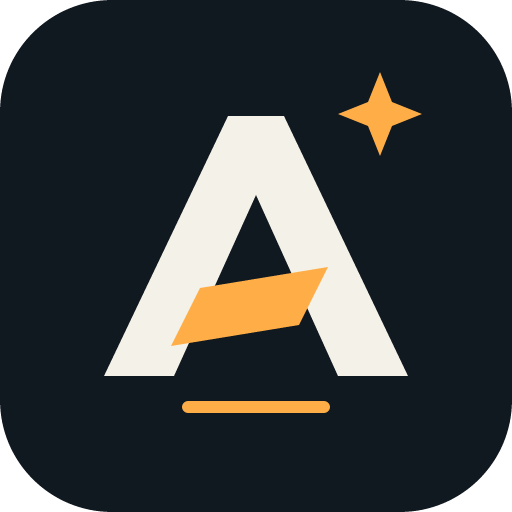
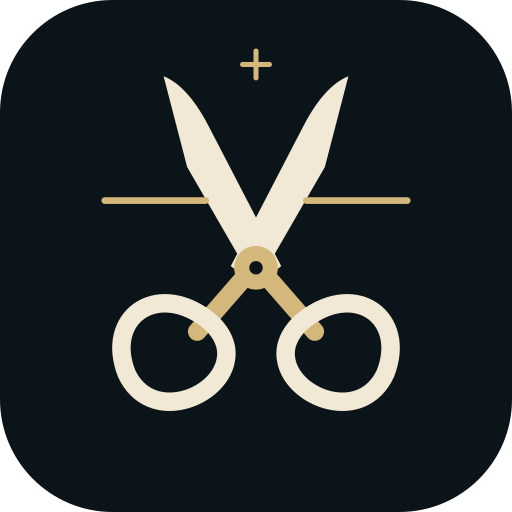
Propose Axiom Atropos identity while preserving Forge runtime compatibility

Changed region(s): [[0.1875, 0.125, 0.8125, 0.8125], [0.4688, 0.0938, 0.5312, 0.1562]]

diff --git a/README.md b/README.md
@@ -1,14 +1,23 @@
 <p align="center">
-  <img src="assets/readme-cover.svg" width="960" alt="Axiom Forge — research and engineering skills" />
+  <picture>
+    <source media="(prefers-color-scheme: dark) and (max-width: 600px)" srcset="assets/readme-cover-dark-mobile.svg" />
+    <source media="(max-width: 600px)" srcset="assets/readme-cover-mobile.svg" />
+    <source media="(prefers-color-scheme: dark)" srcset="assets/readme-cover-dark.svg" />
+    <img src="assets/readme-cover.svg" width="960" alt="Axiom Atropos — research and engineering skill pack in the Axiom Moirai family" />
+  </picture>
 </p>
 
-# Axiom Forge
+# Axiom Atropos
 
 **Research and engineering skills for the agent you already use.**
 
 <p align="center"><a href="README.md">English</a> · <a href="README.zh-TW.md">繁體中文</a> · <a href="README.zh-CN.md">简体中文</a></p>
 
-Axiom Forge brings **66 skills** into **Codex · Claude Code · DeepSeek Harness · Antigravity · Pi**. Use them to work through a research question, review evidence, or plan and check a code change.
+Axiom Atropos brings **66 skills** into **Codex · Claude Code · DeepSeek Harness · Antigravity · Pi**. Use them to work through a research question, review evidence, or plan and check a code change.
+
+**Naming transition:** Axiom Atropos is the selected new name for this **Axiom Forge** skill pack, in the Axiom family's **Moirai** series. Repository URLs, install commands, plugin IDs and host display names stay unchanged in this branding-only update. [Naming & compatibility](docs/naming-transition.md).
+
+This package includes skills and supporting agent integrations. **Axiom Lachesis remains planned**; this branding change does not implement or bundle that separate product.
 
 ## What are you working on?
 
@@ -16,7 +25,7 @@ Axiom Forge brings **66 skills** into **Codex · Claude Code · DeepSeek Harness
 
 Start with [research-suite](skills/research-suite/SKILL.md). It selects workflows for literature searches, hypothesis design, statistics and evidence critique.
 
-> Use Axiom Forge to investigate this question. Start with research-suite and select the skills the problem needs.
+> Use Axiom Atropos to investigate this question. Start with research-suite and select the skills the problem needs.
 
 ### A code change
 
@@ -24,7 +33,7 @@ Start with [poteto-mode](skills/poteto-mode/SKILL.md). It routes engineering wor
 
 > Use poteto-mode to investigate this bug. Read the relevant code, reproduce the failure, and explain how you will check the fix.
 
-Pick the skills the task needs. You do not need to load all 65.
+Pick the skills the task needs. You do not need to load all 66.
 
 ## Install for your host
 
@@ -67,7 +76,7 @@ These commands download and run an installer from `main`. Read [the shell instal
 ## Inside the repository
 
 ```text
-skills/             65 reusable workflows
+skills/             66 reusable workflows
 pstack-resources/   Shared Pstack references and host mappings
 docs/               Compatibility and maintenance
 scripts/            Installer, validation and packaging

diff --git a/docs/naming-transition.md b/docs/naming-transition.md
@@ -1,0 +1,34 @@
+# Axiom Atropos: naming and compatibility
+
+**Axiom Atropos** is the selected new name for the skill pack previously presented as **Axiom Forge**. It belongs to **Moirai**, a series within the Axiom mother brand. This change updates the first-party visual identity and introductory documentation only; it does not rename the repository, migrate the installed package or replace its existing integrations.
+
+## What stays stable
+
+| Surface | Retained value or behavior |
+|---|---|
+| Repository and releases | `xinhi6716/axiom-forge` and its existing URLs |
+| Plugin and marketplace identifiers | `axiom-forge` |
+| Host-facing display name and generated metadata | `Axiom Forge` in the existing manifests |
+| Install, update and invocation commands | Existing commands and host selectors, unchanged |
+| Skill paths and supporting resources | All 66 skills, `skills/` and `pstack-resources/` paths, unchanged |
+| Existing bridge and agents | `bridge/`, `agents/`, `skills/god-mode/` and their metadata mappings, unchanged |
+| Version and packaging | Existing version and `axiom-forge` archive identifiers, unchanged |
+| Host support and verification | Existing compatibility table and evidence, unchanged |
+
+**No reinstall, command rewrite or manual cache migration is required for this branding-only update.** An installed host may continue to show **Axiom Forge**; that is expected while these compatibility identifiers remain stable. Keep using the documented install/update commands and existing repository links.
+
+Any later identifier, package or repository migration will need its own compatibility plan. This document does not promise an automatic redirect or a future migration date.
+
+## Product boundaries
+
+- **Axiom** is the mother brand, not a claim that every proposed family product has shipped.
+- **Axiom Atropos** is this skill pack with its existing supporting bridge and agent integrations. This identity update does not supply host CLIs, model access, credentials or environment setup, and does not change how those integrations operate.
+- **Axiom Lachesis** is a planned coordinator without self-evolution or RAG. This branding change does not implement or bundle that separate product.
+
+The existing RSI material remains a research method, not a deployed self-evolution capability or a promise of unlimited self-improvement.
+
+## Artwork and attribution
+
+The selected **Celestial Order** identity uses newly constructed vector artwork for Axiom Atropos. Its symbolic shears refer to a clear craft boundary; they do not alter skill behavior or establish measured performance. See [asset notices](../assets/ASSET_NOTICES.txt).
+
+Upstream Pstack artwork, source pins, copyright notices and licenses are preserved. They are not rebranded as original Axiom work. The repository's [MIT license](../LICENSE) remains unchanged.

diff --git a/README.zh-TW.md b/README.zh-TW.md
@@ -1,14 +1,23 @@
 <p align="center">
-  <img src="assets/readme-cover.svg" width="960" alt="Axiom Forge — research and engineering skills" />
+  <picture>
+    <source media="(prefers-color-scheme: dark) and (max-width: 600px)" srcset="assets/readme-cover-dark-mobile.svg" />
+    <source media="(max-width: 600px)" srcset="assets/readme-cover-mobile.svg" />
+    <source media="(prefers-color-scheme: dark)" srcset="assets/readme-cover-dark.svg" />
+    <img src="assets/readme-cover.svg" width="960" alt="Axiom Atropos — research and engineering skill pack in the Axiom Moirai family" />
+  </picture>
 </p>
 
-# Axiom Forge
+# Axiom Atropos
 
 **把研究與工程工作交給你正在使用的 agent。**
 
 <p align="center"><a href="README.md">English</a> · <a href="README.zh-TW.md">繁體中文</a> · <a href="README.zh-CN.md">简体中文</a></p>
 
-Axiom Forge 為 **Codex · Claude Code · DeepSeek Harness · Antigravity · Pi** 整合 **66 個 skills**。你可以用它拆解研究問題、核對證據，或規劃與檢查程式修改。
+Axiom Atropos 為 **Codex · Claude Code · DeepSeek Harness · Antigravity · Pi** 整合 **66 個 skills**。你可以用它拆解研究問題、核對證據，或規劃與檢查程式修改。
+
+**名稱過渡：** **Axiom Atropos** 是本 **Axiom Forge** 技能包選定的新名稱，屬於 Axiom 品牌下的 **Moirai** 系列。本次僅更新品牌與文件；倉庫網址、安裝指令、插件識別碼及主機顯示名稱均維持不變。[名稱與相容性說明](docs/naming-transition.md)。
+
+此套件包含技能與既有 agent 的輔助整合。**Axiom Lachesis 仍在規劃中**；本次品牌更新不會實作或附帶該獨立產品。
 
 ## 你現在要做什麼？
 
@@ -16,7 +25,7 @@ Axiom Forge 為 **Codex · Claude Code · DeepSeek Harness · Antigravity · Pi*
 
 從 [research-suite](skills/research-suite/SKILL.md) 開始，按問題選用文獻檢索、假說設計、統計分析與證據評估技能。
 
-> 使用 Axiom Forge 研究這個問題，從 research-suite 開始，選用問題需要的技能。
+> 使用 Axiom Atropos 研究這個問題，從 research-suite 開始，選用問題需要的技能。
 
 ### 修改一段程式
 

diff --git a/README.zh-CN.md b/README.zh-CN.md
@@ -1,14 +1,23 @@
 <p align="center">
-  <img src="assets/readme-cover.svg" width="960" alt="Axiom Forge — research and engineering skills" />
+  <picture>
+    <source media="(prefers-color-scheme: dark) and (max-width: 600px)" srcset="assets/readme-cover-dark-mobile.svg" />
+    <source media="(max-width: 600px)" srcset="assets/readme-cover-mobile.svg" />
+    <source media="(prefers-color-scheme: dark)" srcset="assets/readme-cover-dark.svg" />
+    <img src="assets/readme-cover.svg" width="960" alt="Axiom Atropos — research and engineering skill pack in the Axiom Moirai family" />
+  </picture>
 </p>
 
-# Axiom Forge
+# Axiom Atropos
 
 **把研究与工程工作交给你正在使用的 agent。**
 
 <p align="center"><a href="README.md">English</a> · <a href="README.zh-TW.md">繁體中文</a> · <a href="README.zh-CN.md">简体中文</a></p>
 
-Axiom Forge 为 **Codex · Claude Code · DeepSeek Harness · Antigravity · Pi** 整合 **66 个 skills**。你可以用它拆解研究问题、核对证据，或规划与检查代码修改。
+Axiom Atropos 为 **Codex · Claude Code · DeepSeek Harness · Antigravity · Pi** 整合 **66 个 skills**。你可以用它拆解研究问题、核对证据，或规划与检查代码修改。
+
+**名称过渡：** **Axiom Atropos** 是本 **Axiom Forge** 技能包选定的新名称，属于 Axiom 品牌下的 **Moirai** 系列。本次仅更新品牌与文档；仓库网址、安装命令、插件标识及宿主显示名称均保持不变。[名称与兼容性说明](docs/naming-transition.md)。
+
+此套件包含技能与现有 agent 的辅助集成。**Axiom Lachesis 仍在规划中**；本次品牌更新不会实现或附带该独立产品。
 
 ## 你现在要做什么？
 
@@ -16,7 +25,7 @@ Axiom Forge 为 **Codex · Claude Code · DeepSeek Harness · Antigravity · Pi*
 
 从 [research-suite](skills/research-suite/SKILL.md) 开始，按问题选用文献检索、假说设计、统计分析与证据评估技能。
 
-> 使用 Axiom Forge 研究这个问题，从 research-suite 开始，选用问题需要的技能。
+> 使用 Axiom Atropos 研究这个问题，从 research-suite 开始，选用问题需要的技能。
 
 ### 修改一段代码
 
